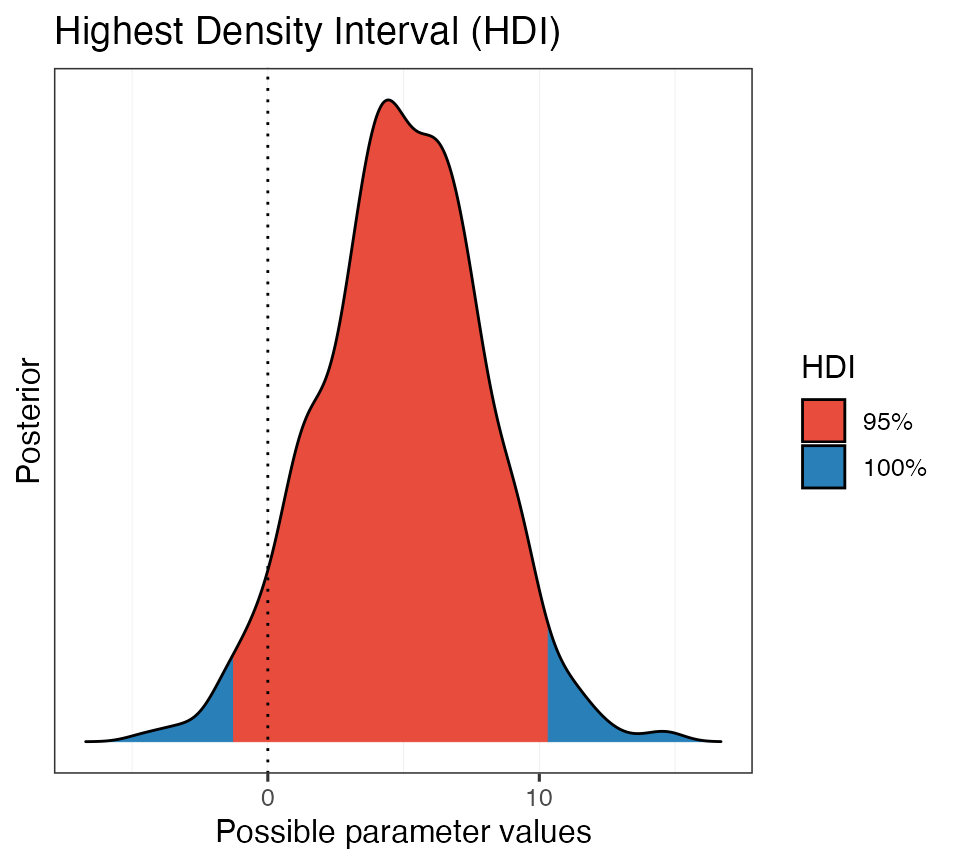
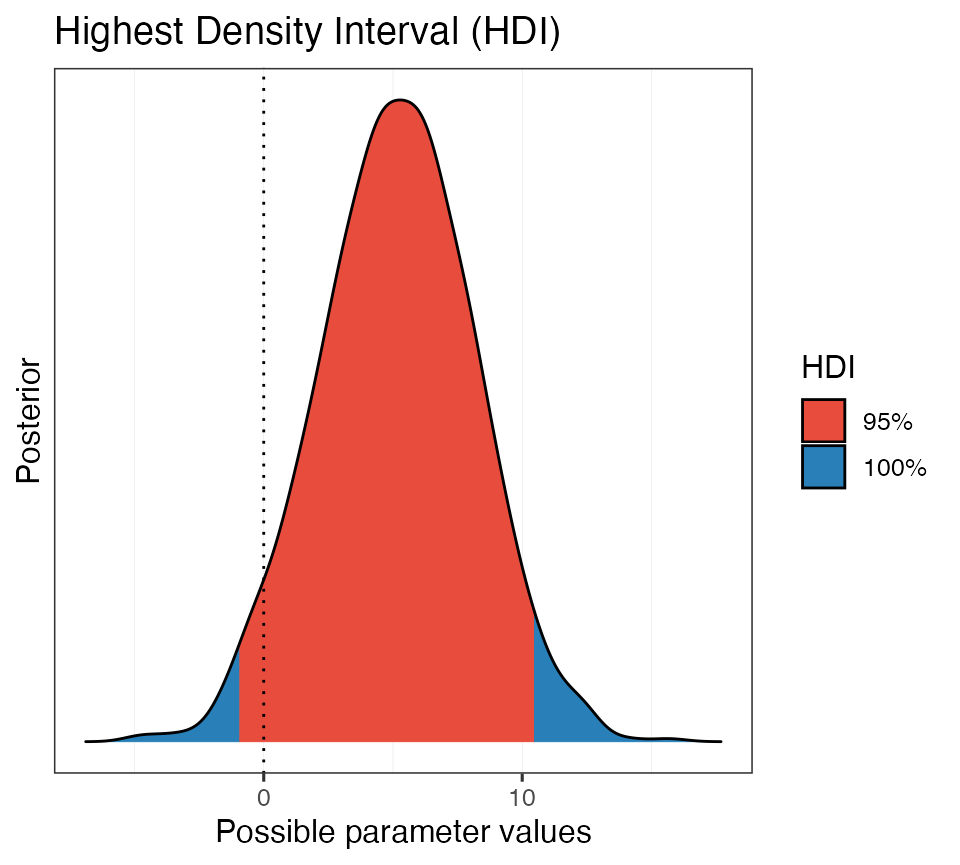
Built site for learnB4SS: 1.0.0@873e73e

diff --git a/articles/ex_06.html b/articles/ex_06.html
@@ -198,15 +198,15 @@
 
 <span class="co"># Use quantile function on posterior</span>
 <span class="fu"><a href="https://rdrr.io/r/stats/quantile.html">quantile</a></span><span class="op">(</span><span class="va">posterior</span>, <span class="fu"><a href="https://rdrr.io/r/base/c.html">c</a></span><span class="op">(</span><span class="fl">0.025</span>, <span class="fl">0.975</span><span class="op">)</span><span class="op">)</span>
-<span class="co">#&gt;      2.5%     97.5% </span>
-<span class="co">#&gt; -1.092069 10.518609</span></code></pre></div>
-<p>We can see that the 95% CI for our posterior is -1.0920685, 10.5186088.</p>
+<span class="co">#&gt;       2.5%      97.5% </span>
+<span class="co">#&gt; -0.6515325 10.9104348</span></code></pre></div>
+<p>We can see that the 95% CI for our posterior is -0.6515325, 10.9104348.</p>
 <p>We can simplify the process even more using the <code>hdi</code> function from the <code>bayestestR</code> package. This has some other benefits that we will see in a bit.</p>
 <div class="sourceCode" id="cb3"><pre class="downlit sourceCode r">
 <code class="sourceCode R"><span class="co"># bayesTestR::hdi</span>
 <span class="va">hdi_ex1</span> <span class="op">&lt;-</span> <span class="fu"><a href="https://easystats.github.io/bayestestR/reference/hdi.html">hdi</a></span><span class="op">(</span><span class="va">posterior</span><span class="op">)</span>
 <span class="va">hdi_ex1</span>
-<span class="co">#&gt; 95% HDI: [-1.26, 10.30]</span></code></pre></div>
+<span class="co">#&gt; 95% HDI: [-0.93, 10.44]</span></code></pre></div>
 <p>Notice that the ranges are slightly different. This is because the HDI, highest density interval, is a special type of credible interval. There are several methods for calculating a CI, but we won’t go into that now. For our purposes we will stick with the HDI.</p>
 <p>One advantage to using the <code>hdi</code> function from the <code>bayestestR</code> package is that it also has print methods. This means we can wrap the <code><a href="https://rdrr.io/r/graphics/plot.default.html">plot()</a></code> function around our <code>hdi</code> object, like this:</p>
 <div class="sourceCode" id="cb4"><pre class="downlit sourceCode r">
@@ -342,7 +342,7 @@ In other words, positive values are still a possibility, given the data, the mod
 <span class="co">#&gt; </span>
 <span class="co">#&gt; inside ROPE</span>
 <span class="co">#&gt; -----------</span>
-<span class="co">#&gt; 0.42 %</span></code></pre></div>
+<span class="co">#&gt; 0.74 %</span></code></pre></div>
 <p>We can set the range of the ROPE and the size of the HDI using the arguments <code>range</code> and <code>ci</code>, respectively.</p>
 <div class="sourceCode" id="cb19"><pre class="downlit sourceCode r">
 <code class="sourceCode R"><span class="co"># Calculate % of HDI within rope w/ specific settings</span>
@@ -351,7 +351,7 @@ In other words, positive values are still a possibility, given the data, the mod
 <span class="co">#&gt; </span>
 <span class="co">#&gt; inside ROPE</span>
 <span class="co">#&gt; -----------</span>
-<span class="co">#&gt; 0.40 %</span></code></pre></div>
+<span class="co">#&gt; 0.71 %</span></code></pre></div>
 <p>The default sets the CI to 95% and the ROPE range to ±0.1, unless the input is a Bayesian model. In that case, the function <code>rope_range</code> is used to calculate a ROPE (following Kruschke 2018, see <code><a href="https://easystats.github.io/bayestestR/reference/rope_range.html">?rope_range</a></code>).</p>
 <p><span class="math display">\[\color{black}{\frac{\mu_{1} - \mu_{2}}{\sqrt{\frac{\sigma^2_{1} + \sigma^2_{2}}{2}}}}\]</span></p>
 <div class="sourceCode" id="cb20"><pre class="downlit sourceCode r">

diff --git a/index.html b/index.html
@@ -179,7 +179,7 @@
 <a href="#download-the-starter-kit" class="anchor"></a>Download the Starter Kit</h3>
 <p>To save you some hassle, we created a Starter Kit, which you can download from here: <a href="https://github.com/learnB4SS/learnB4SS-kit">Go to download page</a>.</p>
 <p>The download page also contains instructions to get you set up.</p>
-<p><em>Alternative</em>. If you prefer not to use the Starter Kit, then you can just follow the <a href="https://learnb4ss.github.io/learnB4SS/articles/install-learnb4ss.html">installation instructions for the learB4SS package</a>. Note that the package and materials are best used from RStudio.</p>
+<p><em>Alternative</em>. If you prefer not to use the Starter Kit, then you can just follow the <a href="https://learnb4ss.github.io/learnB4SS/articles/install-learnb4ss.html">installation instructions for the learnB4SS package</a>. Note that the package and materials are best used from RStudio.</p>
 </div>
 </div>
 <div id="check-list" class="section level2">
